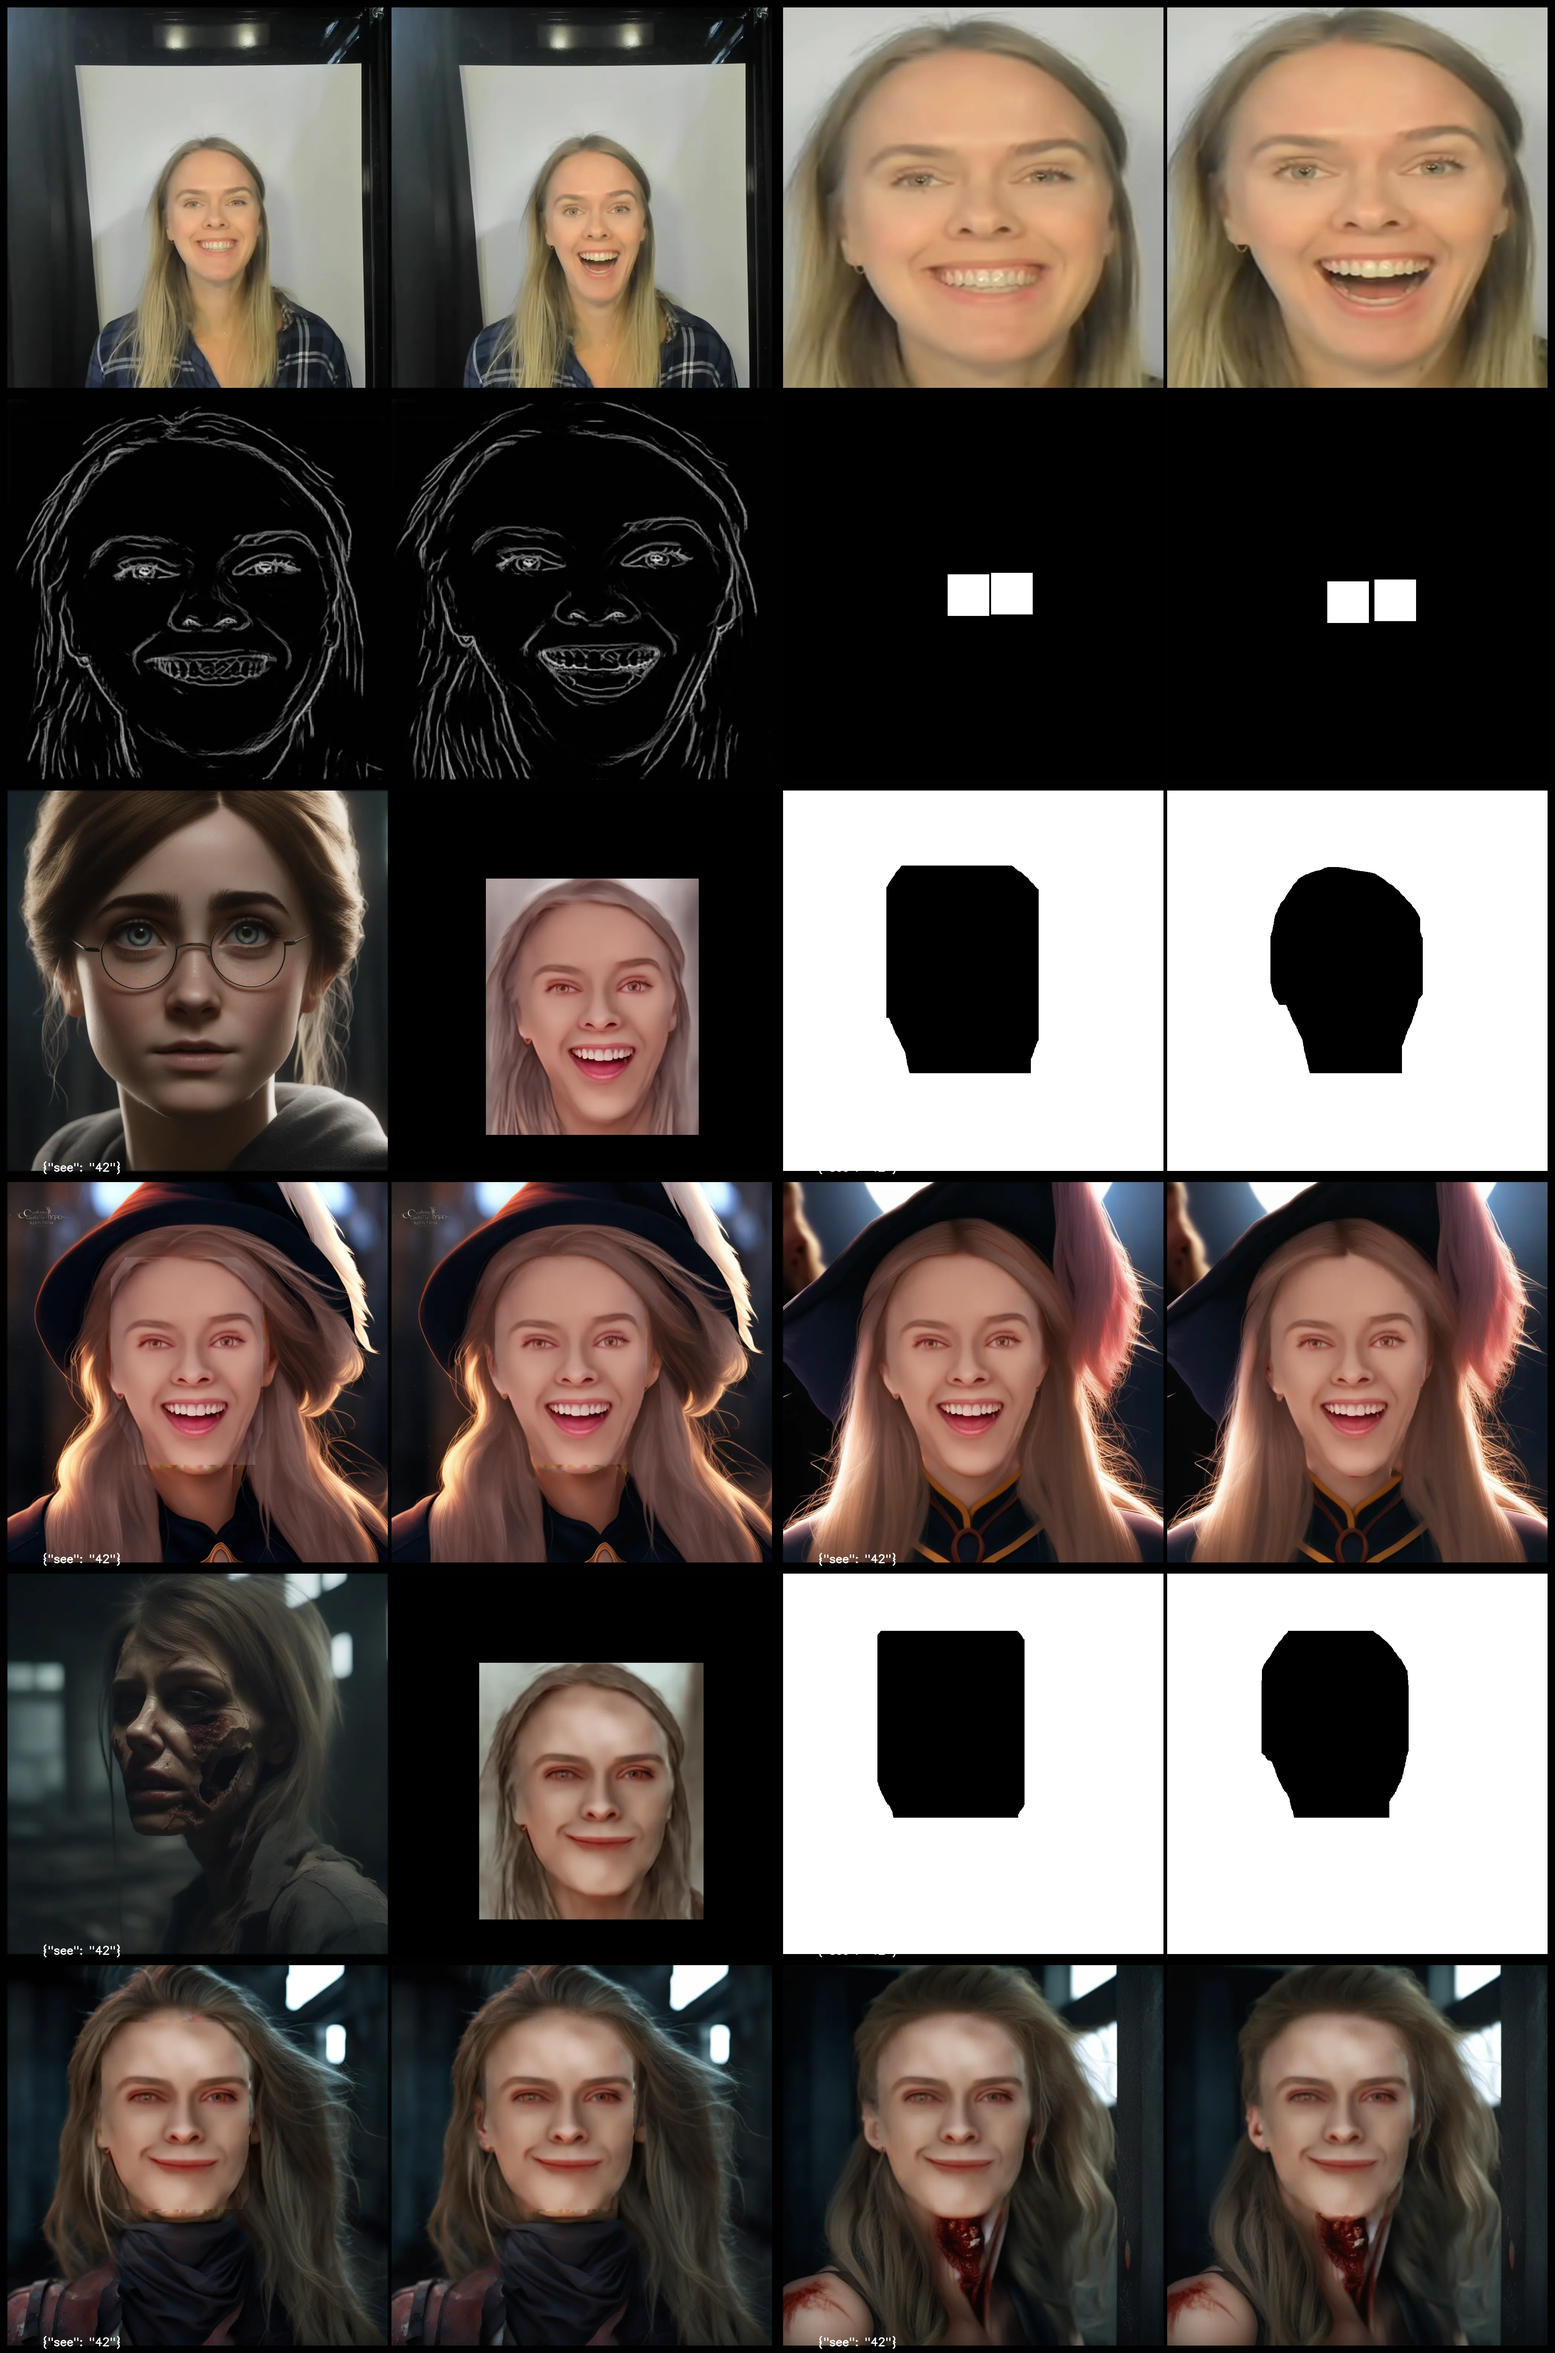
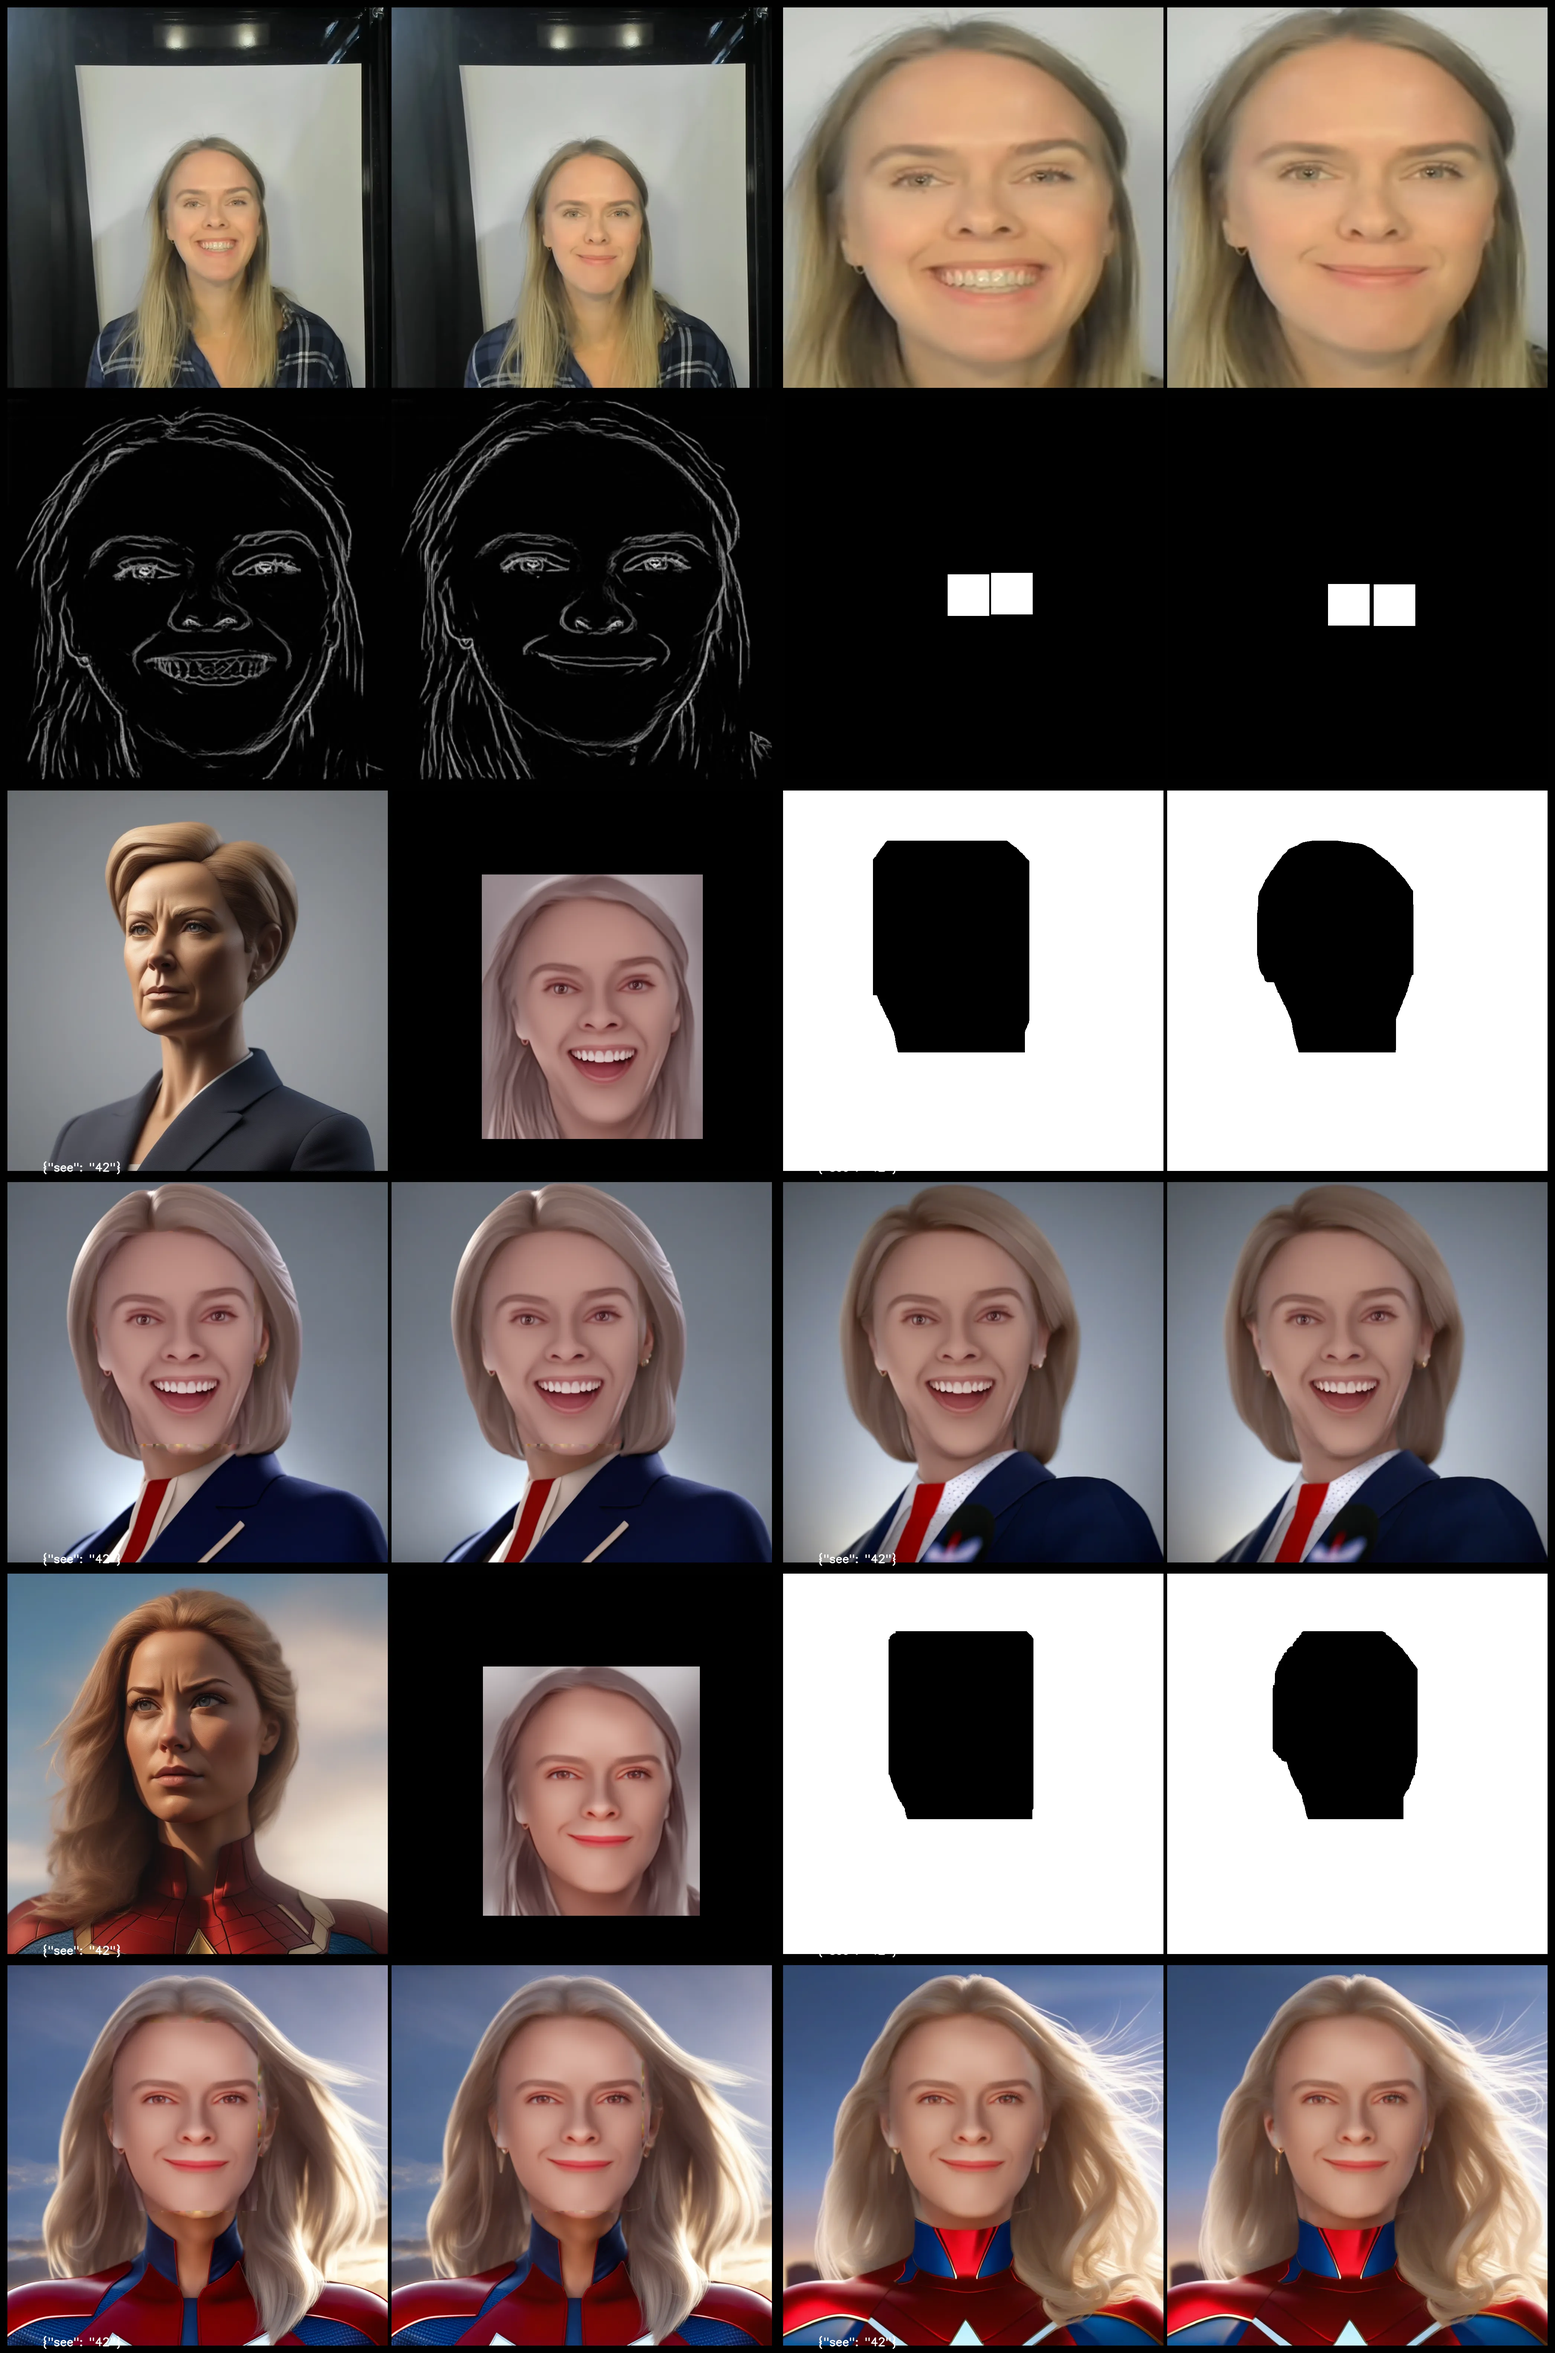
Improvements.

diff --git a/one_shot/dreambooth/model.py b/one_shot/dreambooth/model.py
@@ -273,7 +273,7 @@ class ModelInstance:
                 ),
                 adapter_conditioning_factor=self.params.conditioning_factor,
                 output_type="latent",
-                denoising_end=self.params.high_noise_frac + 0.1,
+                denoising_end=self.params.high_noise_frac + 0.15,
                 **self.details_prompts.kwargs_for_xl(idx),
             ).images[0]
             for idx, img in enumerate(self.request.generation.images)
@@ -504,7 +504,7 @@ class ModelInstance:
                 image=img,
                 mask_image=self.edge_masks[idx],
                 generator=self.generator,
-                strength=0.35,
+                strength=0.25,
                 guidance_scale=self.params.guidance_scale,
                 num_inference_steps=self.params.inpainting_steps,
                 **self.merge_prompts.kwargs_for_refiner(idx),
@@ -518,7 +518,7 @@ class ModelInstance:
                 image=image,
                 mask_image=self.masks[idx],
                 generator=self.generator,
-                strength=0.95,
+                strength=0.99,
                 guidance_scale=self.params.guidance_scale,
                 num_inference_steps=self.params.inpainting_steps,
                 **self.details_prompts.kwargs_for_inpainter(idx),
@@ -532,7 +532,7 @@ class ModelInstance:
                 image=img,
                 mask_image=self.edge_masks[idx],
                 generator=self.generator,
-                strength=0.35,
+                strength=0.25,
                 guidance_scale=self.params.guidance_scale,
                 num_inference_steps=self.params.inpainting_steps,
                 **self.merge_prompts.kwargs_for_refiner(idx),

diff --git a/one_shot/dreambooth/request.py b/one_shot/dreambooth/request.py
@@ -13,7 +13,6 @@ import numpy as np
 import torch
 from loguru import logger
 from PIL import Image
-from torchvision.transforms.functional import to_pil_image
 
 from one_shot.dreambooth.process import (
     GenerationRequest,
@@ -28,7 +27,6 @@ from one_shot.utils import (
     grid,
     images,
     open_image,
-    unsharp_mask,
 )
 
 if TYPE_CHECKING:
@@ -52,7 +50,9 @@ class Request:
         logger.info("Loading images...")
         for path in images(self.image_dir):
             logger.debug(f"Loading {path}...")
-            yield open_image(self.dreambooth.params, path)
+            img = open_image(self.dreambooth.params, path)
+            yield img
+            # yield to_pil_image(unsharp_mask(np.asarray(img)))
 
     @cache
     @collect
@@ -60,9 +60,9 @@ class Request:
         logger.info("Loading controls...")
         for i, face in enumerate(self.face.primary_faces()):
             logger.debug(f"Loading controls for {i}...")
-            sharpened = unsharp_mask(np.asarray(face))
+
             yield self.dreambooth.models.detector(
-                to_pil_image(sharpened),
+                face,
                 detect_resolution=self.dreambooth.params.detect_resolution,
                 image_resolution=self.dreambooth.params.model.resolution,
             )

diff --git a/one_shot/__init__.py b/one_shot/__init__.py
@@ -1,3 +1,5 @@
+import subprocess
+
 from loguru import logger
 from modal import is_local
 
@@ -28,9 +30,10 @@ def _main():
                 # "f09e2b714736a0a553d33448fd6d9ed5",
                 # "f314e6cb3429719e3bdca6ac28823ccc",
                 "ca4b1e40984e7cc6f23777963e9ae76e",
-                # "d41d8cd98f00b204e9800998ecf8427e",
+                "d41d8cd98f00b204e9800998ecf8427e",
                 "9806ad626c78b3b4b1547c73cc627605",
                 "79c053cf2d6d3922be669f9b78f34b2a",
+                "f09e2b714736a0a553d33448fd6d9ed5",
             ],
             {
                 # "steps": [30],
@@ -45,6 +48,9 @@ def _main():
         )
     ):
         logger.info("Saved {}: {}", i, path)
+        subprocess.run(["rm", "-f", path])
+        subprocess.run(["modal", "volume", "get", "model-cache", path])
+        subprocess.run(["open", path])
 
 
 main = stub.local_entrypoint()(_main)

diff --git a/one_shot/params.py b/one_shot/params.py
@@ -221,13 +221,13 @@ class Params(BaseModel):
     seed: Optional[int] = None
     steps: int = 25
     inpainting_steps = 15
-    images: int = 4
+    images: int = 2
 
     detect_resolution: int = 384
     guidance_scale: float = 9.0
     refiner_strength = 0.05
     inpainting_strength = 0.40
-    conditioning_strength: tuple[float, float] = (1.82, 1.84)
+    conditioning_strength: tuple[float, float] = (1.89, 1.91)
     conditioning_factor: float = 1.0
     lora_scale = 0.4
     high_noise_frac: float = 0.85

diff --git a/one_shot/__main__.py b/one_shot/__main__.py
@@ -9,7 +9,7 @@ def main():
 
 def test():
     Function.lookup(stub.name, "Dreambooth.generate").remote(
-        "ca4b1e40984e7cc6f23777963e9ae76e"
+        "f09e2b714736a0a553d33448fd6d9ed5"
     )
 
 
